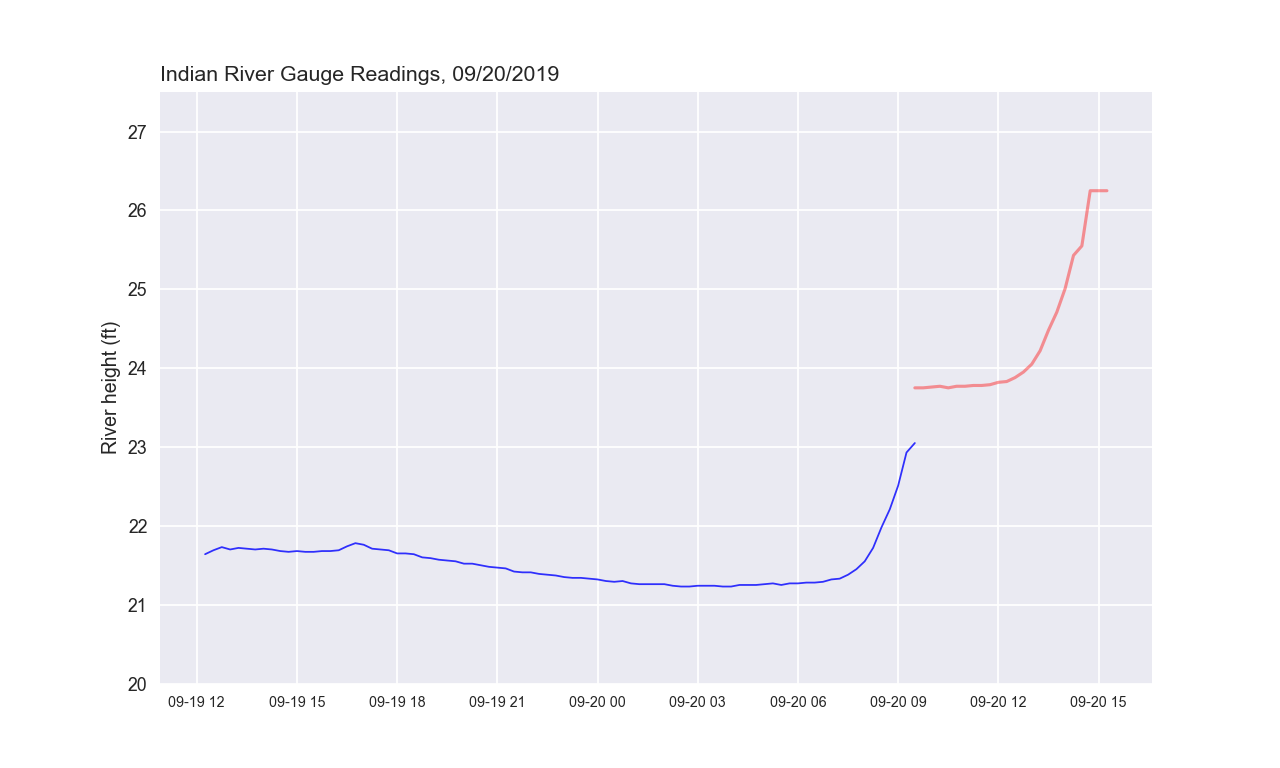
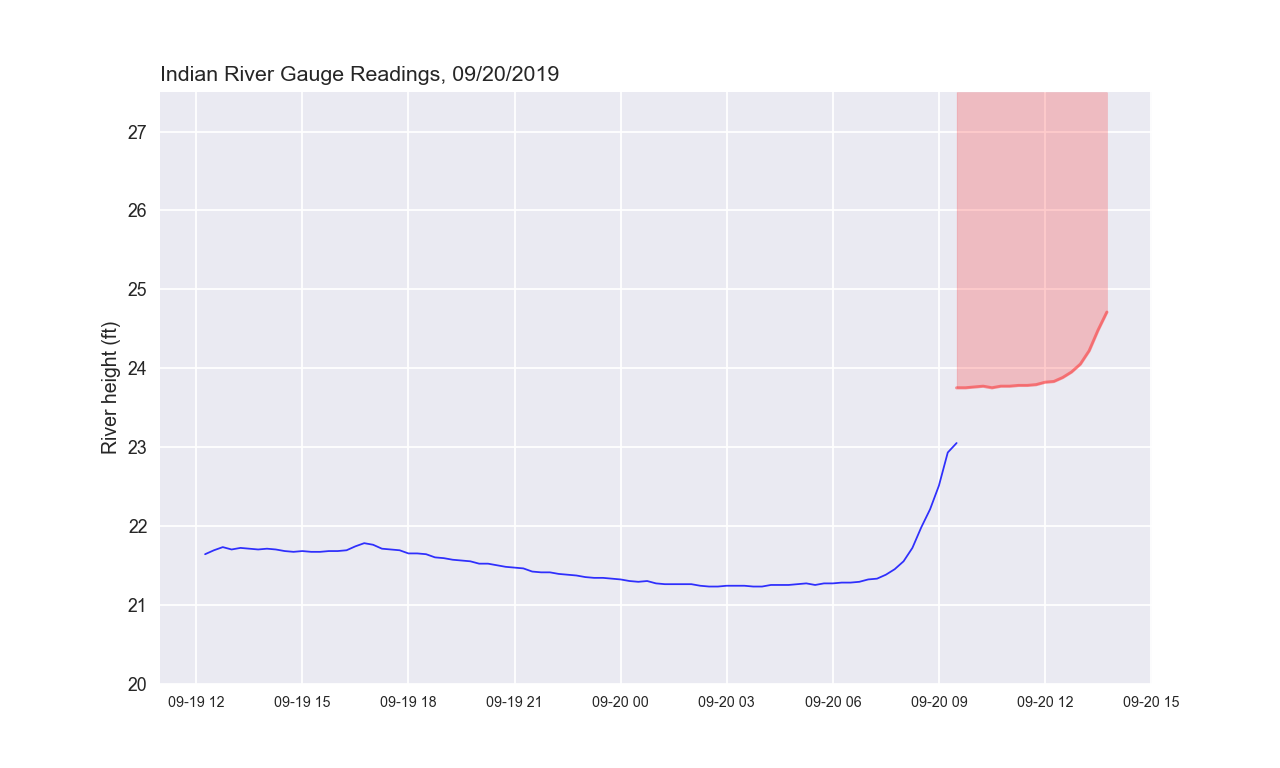
Shades above critical points.

diff --git a/utils/plot_utils_mpl.py b/utils/plot_utils_mpl.py
@@ -39,7 +39,7 @@ def plot_critical_forecast_mpl(readings, critical_points=[],
     interval = datetime.timedelta(minutes=15)
     future_readings = []
     new_reading_dt = readings[-1].dt_reading
-    for _ in range(24):
+    for _ in range(18):
         new_reading = IRReading(new_reading_dt, 23.0)
         future_readings.append(new_reading)
         new_reading_dt += interval
@@ -115,8 +115,9 @@ def plot_critical_forecast_mpl(readings, critical_points=[],
         #         horizontalalignment='right')
 
     # Plot minimum future critical readings.
+    #   Plot these points, and shade to max y value.
     ax.plot(min_cf_datetimes, min_cf_heights, c='red', alpha=0.4)
-
+    ax.fill_between(min_cf_datetimes, min_cf_heights, 27.5, color='red', alpha=0.2)
 
 
     # Set chart and axes titles, and other formatting.
